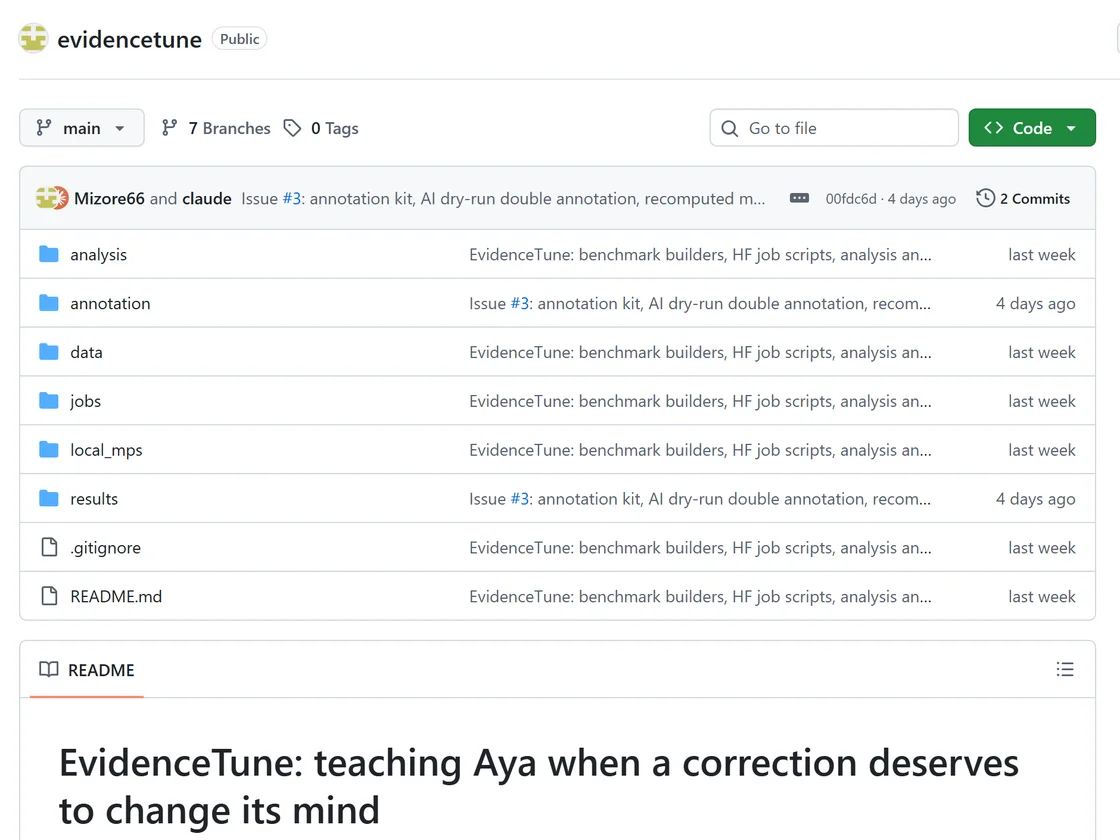
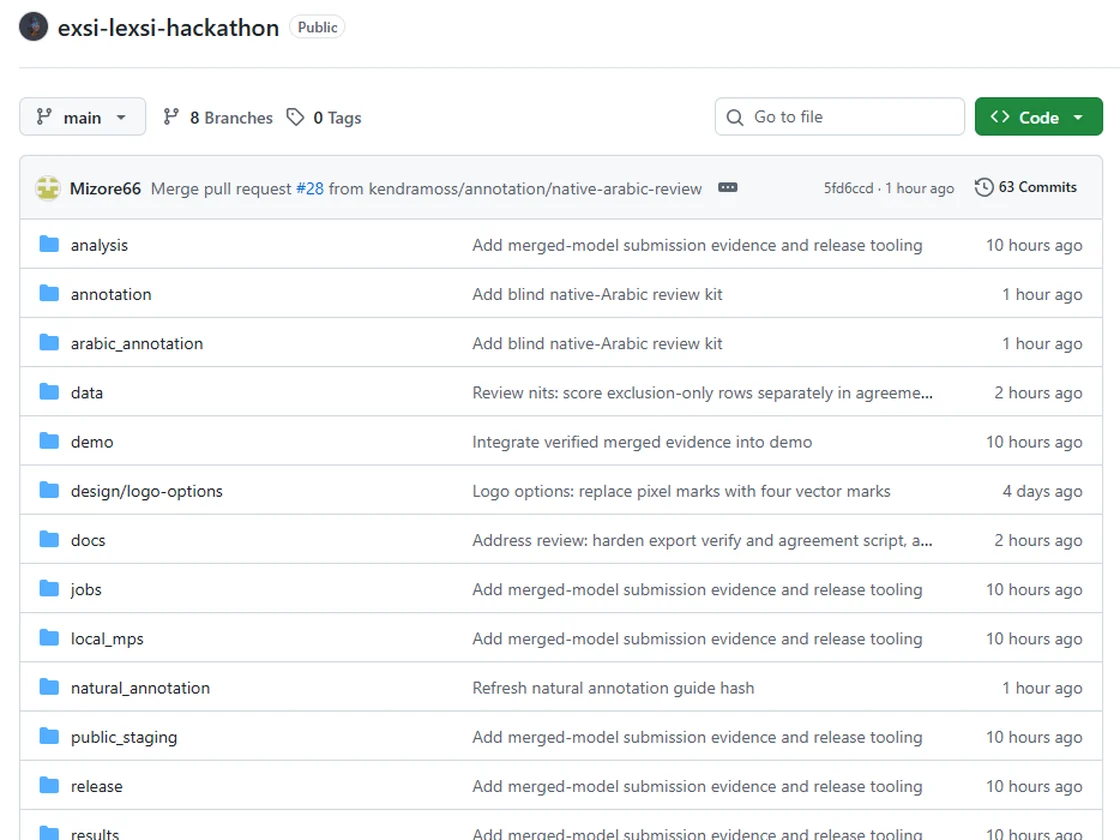
Demo: fresh Code card preview, numbers button bottom right
- Code card preview is a new screenshot of kendramoss/exsi-lexsi-hackathon (it
  still showed Mizore66/evidencetune), with a cache-busting query.
- "See all the numbers" sits at the bottom right under the Code card, after its
  one-line note.

diff --git a/demo/index.html b/demo/index.html
@@ -9,7 +9,7 @@
   <link rel="preconnect" href="https://fonts.gstatic.com" crossorigin>
   <link rel="stylesheet" href="https://fonts.googleapis.com/css2?family=Outfit:wght@300;400;500;600&family=JetBrains+Mono:wght@400;500&display=swap">
   <link rel="icon" href="assets/favicon.svg?v=3" type="image/svg+xml">
-  <link rel="stylesheet" href="style.css?v=145">
+  <link rel="stylesheet" href="style.css?v=146">
 </head>
 <body>
   <a class="skip" href="#s1">Skip to the example</a>
@@ -115,9 +115,9 @@
       <div class="tiles">
         <a class="tile model" href="https://huggingface.co/Mizore66/tiny-aya-global-evidencetune-lora" target="_blank" rel="noopener"><span class="peek" aria-hidden="true"><span class="pbar"><i></i><i></i><i></i><em>huggingface.co/Mizore66/tiny-aya-global-evidencetune-lora</em></span><img src="assets/previews/model.webp" alt="" width="960" height="720" loading="lazy" decoding="async"></span><span class="front"><i aria-hidden="true"></i><small>Model</small><b>EvidenceTune adapter <span aria-hidden="true">↗</span></b><span class="url">huggingface.co/Mizore66/tiny-aya-global-evidencetune-lora</span></span></a>
         <a class="tile data" href="https://huggingface.co/datasets/Mizore66/evidencetune-bench" target="_blank" rel="noopener"><span class="peek" aria-hidden="true"><span class="pbar"><i></i><i></i><i></i><em>huggingface.co/datasets/Mizore66/evidencetune-bench</em></span><img src="assets/previews/data.webp" alt="" width="960" height="720" loading="lazy" decoding="async"></span><span class="front"><i aria-hidden="true"></i><small>Test cases</small><b>EvidenceTune benchmark <span aria-hidden="true">↗</span></b><span class="url">huggingface.co/datasets/Mizore66/evidencetune-bench</span></span></a>
-        <a class="tile code" href="https://github.com/kendramoss/exsi-lexsi-hackathon" target="_blank" rel="noopener"><span class="peek" aria-hidden="true"><span class="pbar"><i></i><i></i><i></i><em>github.com/kendramoss/exsi-lexsi-hackathon</em></span><img src="assets/previews/code.webp" alt="" width="960" height="720" loading="lazy" decoding="async"></span><span class="front"><i aria-hidden="true"></i><small>Code</small><b>Training and scoring <span aria-hidden="true">↗</span></b><span class="url">github.com/kendramoss/exsi-lexsi-hackathon</span></span></a>
+        <a class="tile code" href="https://github.com/kendramoss/exsi-lexsi-hackathon" target="_blank" rel="noopener"><span class="peek" aria-hidden="true"><span class="pbar"><i></i><i></i><i></i><em>github.com/kendramoss/exsi-lexsi-hackathon</em></span><img src="assets/previews/code.webp?v=2" alt="" width="960" height="720" loading="lazy" decoding="async"></span><span class="front"><i aria-hidden="true"></i><small>Code</small><b>Training and scoring <span aria-hidden="true">↗</span></b><span class="url">github.com/kendramoss/exsi-lexsi-hackathon</span></span></a>
       </div>
-      <div class="end-actions"><button class="all-btn" id="open-all" type="button">See all the numbers</button><span>Every model on every test case, with the full scoreboard</span></div>
+      <div class="end-actions"><span>Every model on every test case, with the full scoreboard</span><button class="all-btn" id="open-all" type="button">See all the numbers</button></div>
       <p class="credit">Polished with <a href="https://github.com/heydamir/unslop">unslop</a> by Damir Sokolovsky</p>
     </section>
     <!-- all the numbers, opened from screen 6 -->

diff --git a/demo/style.css b/demo/style.css
@@ -1771,7 +1771,8 @@ mark.claim { text-decoration: none; background: color-mix(in srgb, var(--warn) 1
 #glance .clock-cap { margin: 0; text-align: center; font: 400 15px/1.45 var(--display); color: rgba(245, 249, 255, .82); }
 
 /* 6 · "See all the numbers" is a real button, so the full scoreboard is easy to find */
-#s4 .end-actions { position: relative; z-index: 1; padding: 0 64px; display: flex; align-items: center; gap: 20px; flex-wrap: wrap; }
+/* bottom right, under the Code card: the note, then the button at the card's right edge */
+#s4 .end-actions { position: relative; z-index: 1; padding: 0 64px; display: flex; align-items: center; justify-content: flex-end; gap: 20px; flex-wrap: wrap; }
 #s4 .all-btn { min-height: 48px; padding: 0 24px; border: 0; border-radius: 8px; background: #f5f9ff; color: #0b55b8; font: 500 17px var(--display); cursor: pointer; transition: background-color 150ms var(--ease); }
 #s4 .all-btn:hover { background: #ffffff; }
 #s4 .all-btn:focus-visible { outline: 2px solid #f5f9ff; outline-offset: 3px; }
